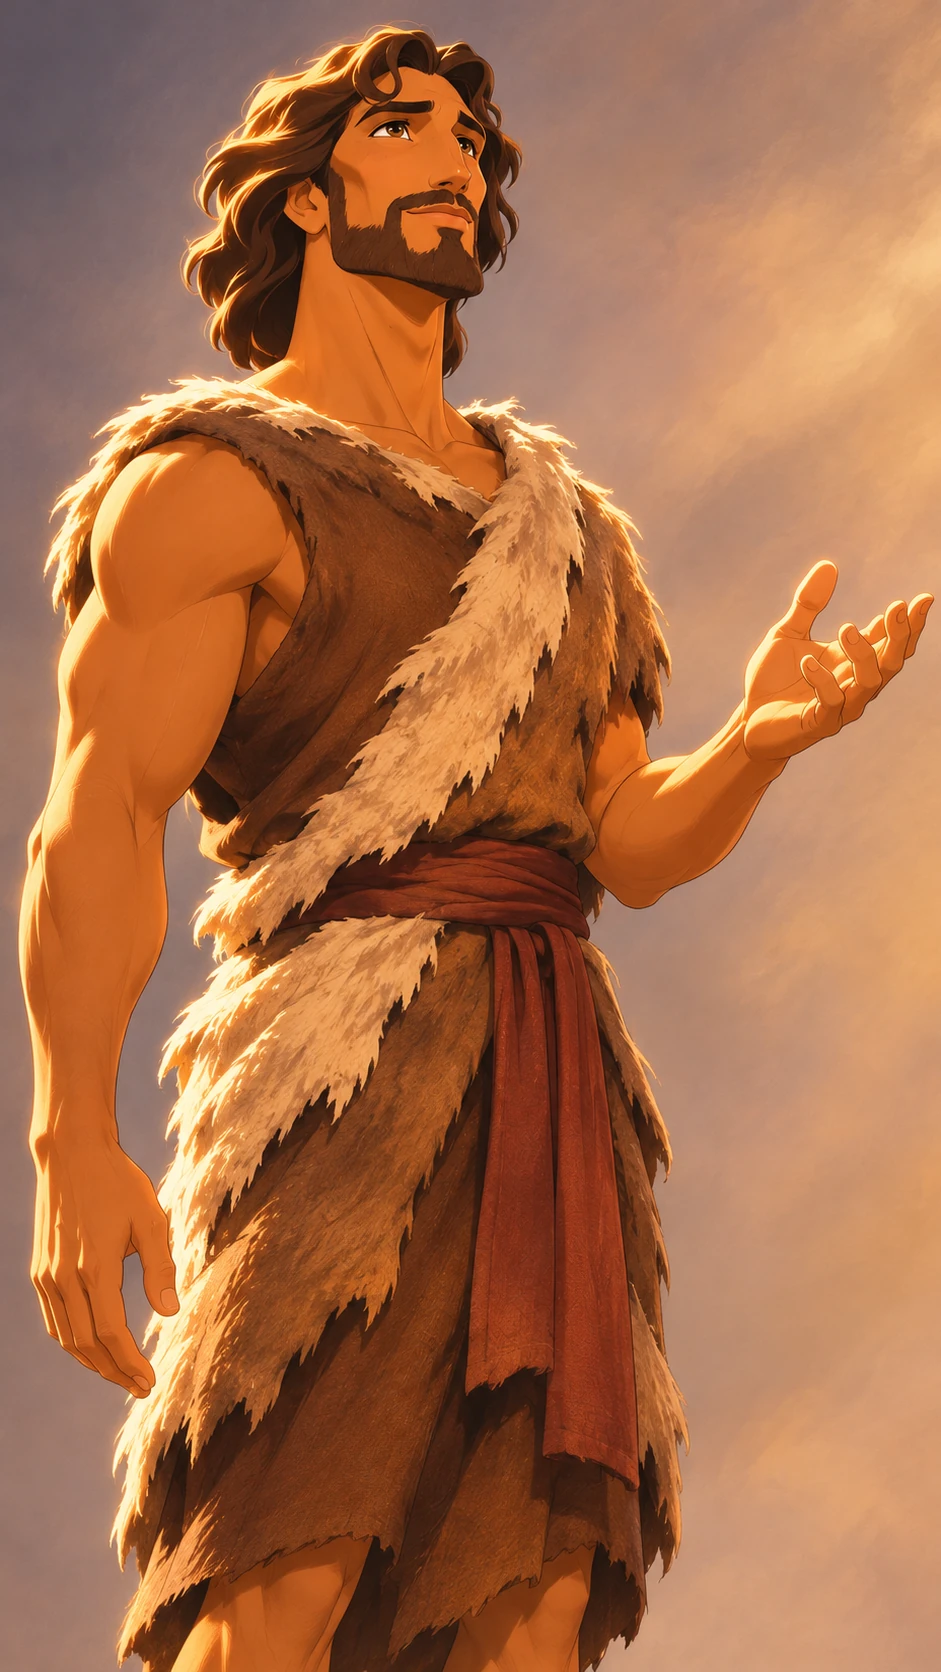
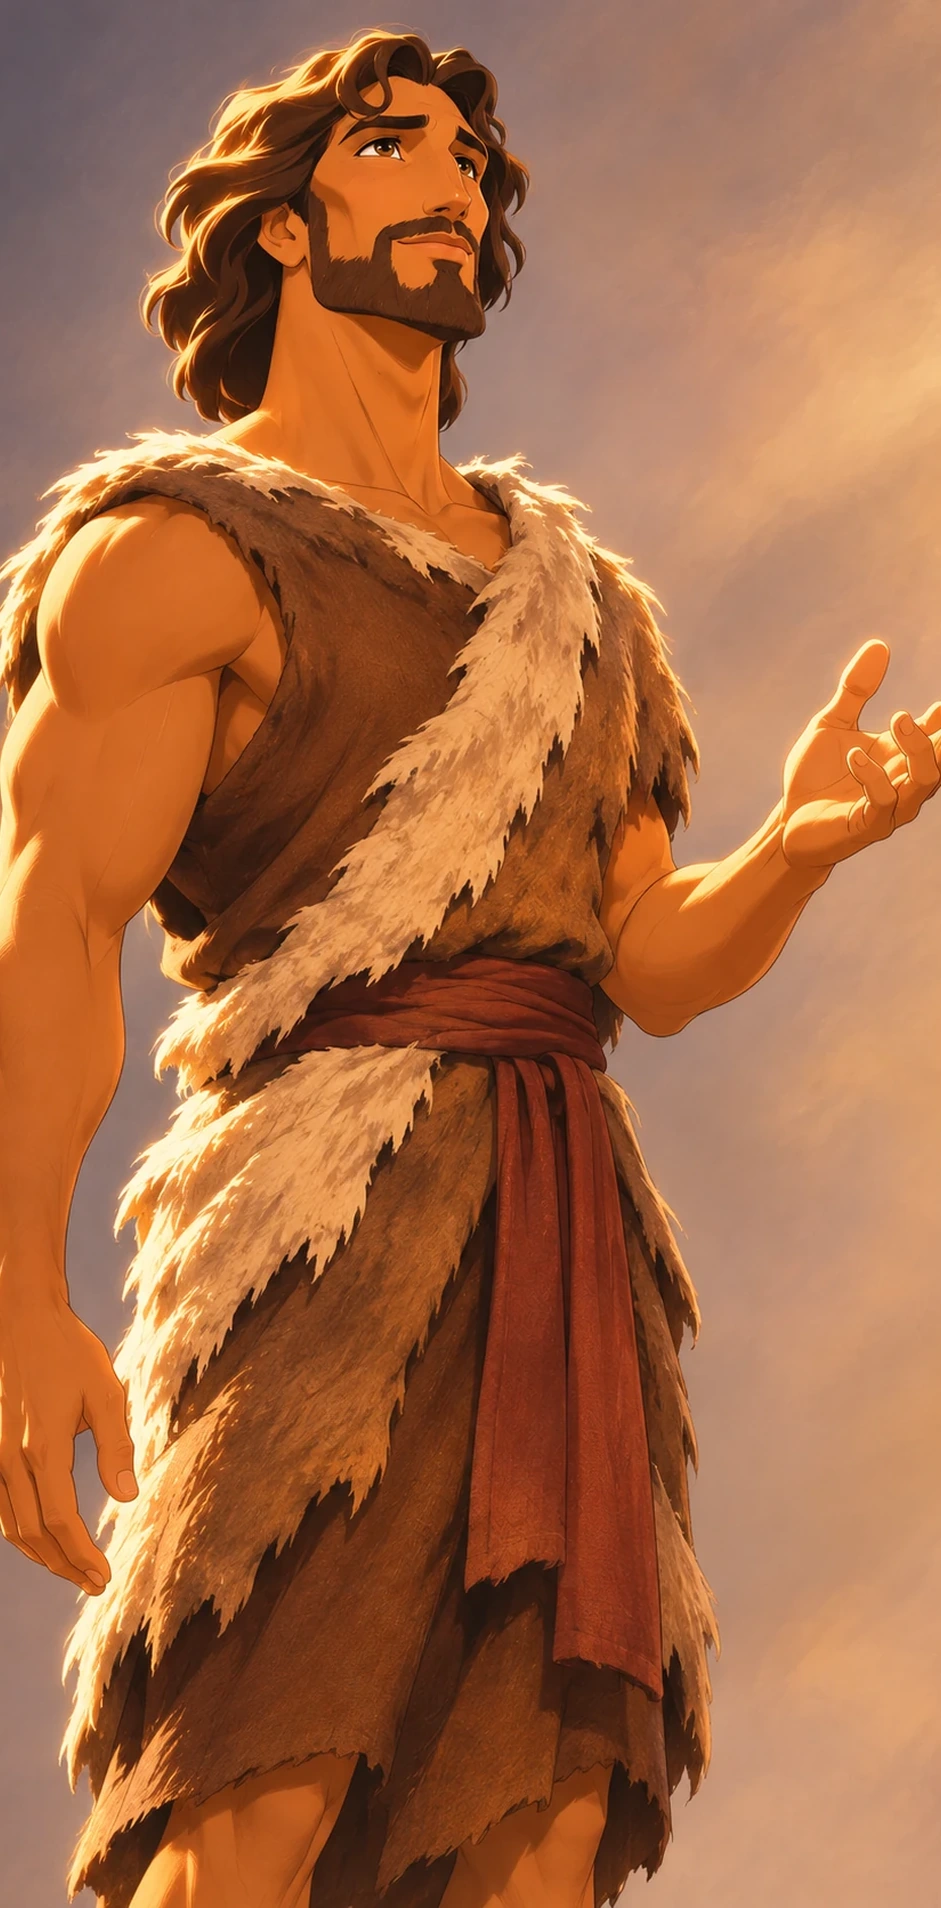
Resize remaining portrait cards

diff --git a/src/components/CharacterCatalog.tsx b/src/components/CharacterCatalog.tsx
@@ -73,6 +73,7 @@ function CharacterCard({ character }: { character: PublicCharacter }) {
   const toggle = () => setExpanded((current) => !current);
   const isJesus = isJesusCharacter(character);
   const isEric = isEricCharacter(character);
+  const isPortrait = isJesus || isEric || ["adam", "eve", "samson"].includes(character.id);
   const portraitSrc = isJesus
     ? `${process.env.NEXT_PUBLIC_BASE_PATH ?? ""}/images/jesus-character-primary.webp`
     : isEric
@@ -95,7 +96,7 @@ function CharacterCard({ character }: { character: PublicCharacter }) {
   );
 
   return (
-    <article className={`character-card${isJesus ? " is-jesus" : ""}${expanded ? " is-expanded" : ""}`}>
+    <article className={`character-card${isPortrait ? " is-portrait" : ""}${expanded ? " is-expanded" : ""}`}>
       <button
         type="button"
         className="character-portrait-trigger"

diff --git a/src/app/character-cards.css b/src/app/character-cards.css
@@ -10,7 +10,7 @@
   grid-template-rows: minmax(0, .38fr) minmax(0, .62fr);
 }
 
-.character-card.is-jesus:not(.is-expanded) {
+.character-card.is-portrait:not(.is-expanded) {
   height: auto;
   aspect-ratio: 941 / 1908;
 }
